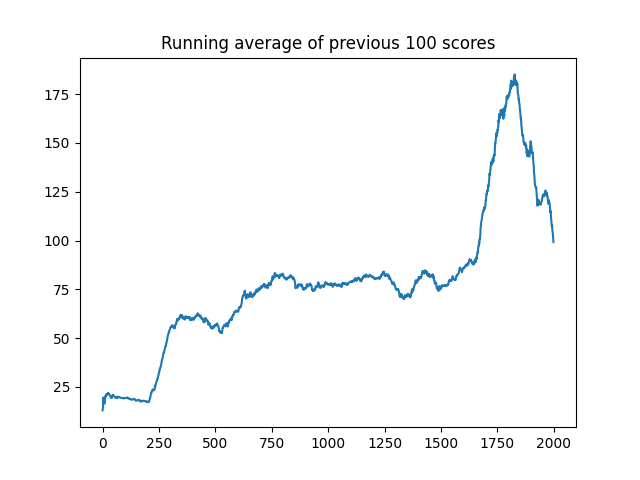
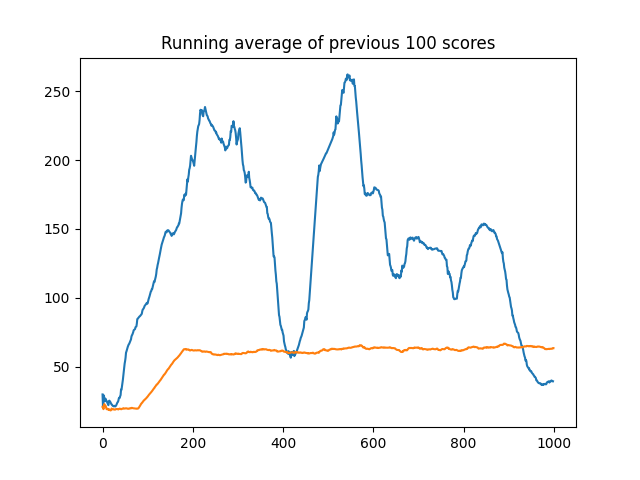
added plots

diff --git a/agent.py b/agent.py
@@ -24,6 +24,7 @@ class Agent_DQ():
         self.batch_size = batch_size
         self.show_result = show_result
         self.episode_durations = []
+        self.train_reward = []
 
         self.policy_network = DQNetwork(self.alpha, self.n_observations, fc1_dim=128, fc2_dim=128,
                                         action_space=self.n_actions)
@@ -95,16 +96,18 @@ class Agent_DQ():
         torch.nn.utils.clip_grad_value_(self.policy_network.parameters(), 100)
         self.policy_network.opt.step()
 
-    def train(self, episodes, filename):
+    def train(self, episodes):
         for episode in trange(1, episodes):
+            episode_reward = 0
             state, _ = self.env.reset()
             state = torch.tensor(state, dtype=torch.float32,
                                  device=self.policy_network.device).unsqueeze(0)
-
-            for t in count():
+            done = False
+            while not done:
                 action = self.select_action(state)
                 next_state, reward, terminal, truncated, _ = self.env.step(
                     action.item())
+                episode_reward += reward
 
                 reward = torch.tensor(
                     [reward], device=self.policy_network.device)
@@ -130,17 +133,19 @@ class Agent_DQ():
                         target_network_state_dict[key] * (1-self.tau)
                 self.target_network.load_state_dict(target_network_state_dict)
 
-                if done:
-                    self.episode_durations.append(t + 1)
-                    plot_durations(self.episode_durations,
-                                   env_name=self.env.spec.id, show_result=False)
-                    break
+                # if done:
+                #     # self.episode_durations.append(t + 1)
+                #     # plot_durations(self.episode_durations,
+                #     #                env_name=self.env.spec.id, show_result=False)
+                #     break
 
-        plot_durations(self.episode_durations,
-                       env_name=self.env.spec.id, show_result=self.show_result)
-        plt.ioff()
-        plt.savefig(filename)
-        plt.show()
+            self.train_reward.append(episode_reward)
+
+        # plot_durations(self.episode_durations,
+        #                env_name=self.env.spec.id, show_result=self.show_result)
+        # plt.ioff()
+        # plt.savefig(filename)
+        # plt.show()
 
 
 class Agent_Q:
@@ -224,7 +229,7 @@ class Agent_Q:
         """
         Simulate a specified number of episodes
         """
-        for episode in range(1, num_episodes+1):
+        for episode in trange(1, num_episodes+1):
             # reset env
             (state, _) = self.env.reset()
             state = list(state)
@@ -267,3 +272,25 @@ class Agent_Q:
             loss = reward - self.Qvalues[state + (action,)]
 
         self.Qvalues[state + (action,)] += self.alpha * loss
+
+    def test(self, episodes):
+        state, _ = self.env.reset()
+        state = list(state)
+        rewards = []
+
+        for episode in range(1, episodes):
+            episode_reward = 0
+            done = False
+            while not done:
+                discritized_state = self.discritize_state(state)
+                best_actions = np.where(self.Qvalues[discritized_state] == np.max(
+                    self.Qvalues[discritized_state]))[0]
+                action = np.random.choice(best_actions)
+
+                next_state, reward, done, *_ = self.env.step(action)
+                episode_reward += reward
+                state = next_state
+
+            rewards.append(episode_reward)
+
+        return rewards

diff --git a/main.py b/main.py
@@ -14,7 +14,12 @@ def cartpole_dq():
                      epsilon_decay=5e-4, epsilon_end=0.01, tau=0.005, batch_size=64)
 
     filename = "plots/cartpole.png"
-    agent.train(500, filename=filename)
+    agent.train(1000)
+    rewards = agent.train_reward
+    x = np.arange(len(rewards))
+    plot(x, rewards, filename,
+         f"Deep Q Learning in CartPole with 1000 training episodes")
+    return rewards
 
 
 def cartpole_q():
@@ -27,11 +32,12 @@ def cartpole_q():
 
     agent = Agent_Q(env=env_cartpole, alpha=0.15, gamma=0.99, epsilon=1.0, num_bins=10,
                     epsilon_decay=5e-4, epsilon_end=0.01, lowerbounds=lowerbounds, upperbounds=upperbounds)
-    agent.train(2000)
+    agent.train(1000)
     rewards = agent.reward
     x = np.arange(len(rewards))
     filename = "plots/cartpole with QLearning"
-    plot(x, rewards, filename)
+    plot(x, rewards, filename, f"Q Learning in CartPole with 1000 training episodes")
+    return rewards
 
 
 def lunarlander_dq():
@@ -39,7 +45,12 @@ def lunarlander_dq():
                      epsilon_decay=5e-4, epsilon_end=0.01, tau=0.005, batch_size=64)
 
     filename = "plots/lunar_lander.png"
-    agent.train(500, filename=filename)
+    agent.train(1000)
+    rewards = agent.train_reward
+    x = np.arange(len(rewards))
+    plot(x, rewards, filename,
+         f"Deep Q Learning in Lunar Lander with 1000 training episodes")
+    return rewards
 
 
 def lunarlander_q():
@@ -47,15 +58,19 @@ def lunarlander_q():
     lowerbounds = env_lunar_lander.observation_space.low
     agent = Agent_Q(env=env_lunar_lander, alpha=0.01, epsilon=1.0, upperbounds=upperbounds, lowerbounds=lowerbounds,
                     num_bins=10, gamma=0.99)
-    agent.train(2000)
+    agent.train(1000)
     rewards = agent.reward
     x = np.arange(len(rewards))
     filename = "plots/lunarlander with QLearning"
-    plot(x, rewards, filename)
+    plot(x, rewards, filename,
+         f"Q Learning in Lunar Lander with 1000 training episodes")
+    return rewards
 
 
 if __name__ == "__main__":
-    # cartpole_dq()
-    # cartpole_q()
-    # lunarlander_dq()
-    lunarlander_q()
+    reward_cartpole_dq = cartpole_dq()
+    reward_cartpole_q = cartpole_q()
+    reward_lunar_dq = lunarlander_dq()
+    reward_lunar_q = lunarlander_q()
+    plot_all(reward_cartpole_dq=reward_cartpole_dq, reward_cartpole_q=reward_cartpole_q,
+             reward_lunar_dq=reward_lunar_dq, reward_lunar_q=reward_lunar_q)

diff --git a/utils.py b/utils.py
@@ -1,19 +1,44 @@
+import seaborn as sns
 import numpy as np
 import matplotlib.pyplot as plt
 import torch
 import matplotlib
+import matplotlib.colors as mcolors
 is_ipython = "inline" in matplotlib.get_backend()
 if is_ipython:
     from IPython import display
 
 
-def plot(x, scores, figure_file):
+def plot(x, scores, figure_file, title):
     running_avg = np.zeros(len(scores))
     for i in range(len(running_avg)):
         running_avg[i] = np.mean(scores[max(0, i-100): (i+1)])
-    plt.plot(x, running_avg)
-    plt.title("Running average of previous 100 scores")
+
+    sns.lineplot(x=x, y=running_avg)
+    plt.title(title)
     plt.savefig(figure_file)
+    plt.clf()
+
+
+def plot_all(reward_cartpole_q, reward_cartpole_dq, reward_lunar_q, reward_lunar_dq):
+    colors = [mcolors.TABLEAU_COLORS["tab:blue"], mcolors.TABLEAU_COLORS["tab:brown"],
+              mcolors.TABLEAU_COLORS["tab:green"], mcolors.TABLEAU_COLORS["tab:orange"]]
+
+    x = np.arange(len(reward_cartpole_dq))
+
+    plt.plot(x, reward_cartpole_q,
+             label=f"CartPole with Q Learning", color=colors[0])
+    plt.plot(x, reward_cartpole_dq,
+             label=f"CartPole with Deep Q Learning", color=colors[1])
+    plt.plot(x, reward_lunar_q,
+             label=f"LunarLander with Q Learning", color=colors[2])
+    plt.plot(x, reward_lunar_dq,
+             label=f"LunarLander with Deep Q Learning", color=colors[3])
+    plt.legend(bbox_to_anchor=(1, 0.5), loc="best")
+    plt.ylabel("Return")
+    plt.xlabel("Episode")
+    plt.savefig("plots/all.png")
+    plt.clf()
 
 
 def plot_durations(episode_durations, env_name, show_result=False):

diff --git a/network.py b/network.py
@@ -1,10 +1,7 @@
-import os
 import torch
 import torch.nn as nn
 import torch.nn.functional as F
 import torch.optim as optim
-from torch.distributions.normal import Normal
-import numpy as np
 
 
 ################################################
